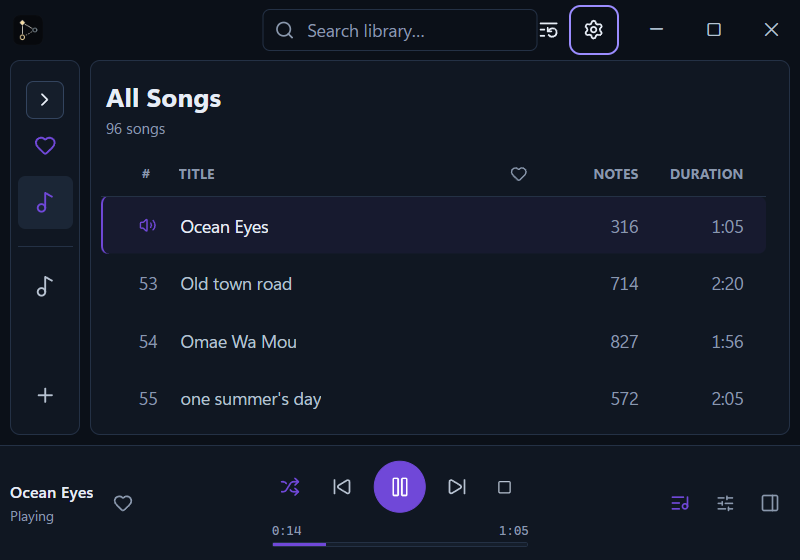
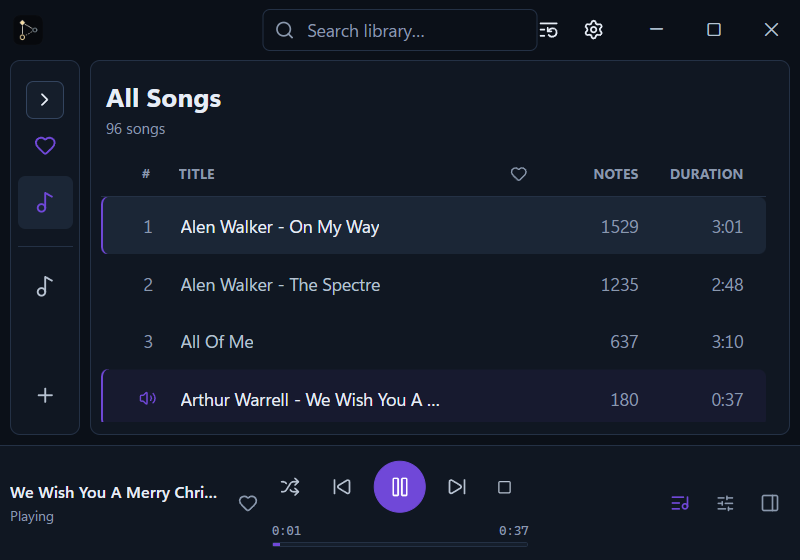
docs: refresh PR 237 Tauri evidence

diff --git a/docs/evidence/pr237-player-ux/README.md b/docs/evidence/pr237-player-ux/README.md
@@ -1,18 +1,18 @@
-# PR #237 — Player UX Tauri evidence
+# PR #238 / Issue #237 — Player UX Tauri evidence
 
-Captured from implementation source SHA `60836de312382954b35937c47b88a3a874ee13f6` in a real Windows Tauri/Wry window using Microsoft Edge WebView2 `154.0.4258.12`. Playwright connected to the WebView2 local CDP endpoint; these are not browser-mock captures. `geometry.json` records the runtime, viewport, document bounds, UI state, measured row geometry, and SHA-256 for each PNG.
+Captured from implementation source commit `dcfd670ecdec75d2805518da9b9fe827402d7027` in a real Windows Tauri/Wry window using Microsoft Edge WebView2 `154.0.4258.12`. Playwright connected to the WebView2 local CDP endpoint; these are not browser-mock captures. `geometry.json` records the runtime, viewport, document bounds, UI state, measured row geometry, and SHA-256 for each PNG.
 
 At 125% display scaling (`devicePixelRatio = 1.25`), the wide WebView viewport was `960×608` and the compact viewport was `640×448`. The corresponding PNG surfaces are `1200×760` and `800×560`. Each capture reports that the document matches its viewport and the workbench fits. The playing row remains 46 CSS px high in wide and compact captures; selected and playing rows retain the same height when they differ. `align: 'auto'` following is covered by the regression suite.
 
-Player screenshots use **Test playback (no input)**. The `next-song-now-playing` capture follows explicit Next during Test playback and shows the new current song in the Library while the selected row remains independent. The natural Auto Play handoff is covered by store and E2E tests; it is not represented as an actual-Tauri advancing-state screenshot because dry-run Test playback intentionally remains one-shot, and exercising non-dry-run playback would send gameplay input.
+Player screenshots use **Test playback (no input)**. The `next-song-now-playing` capture follows explicit Next during Test playback: We Wish You A Merry Christmas is Now Playing while On My Way remains selected. The natural Auto Play handoff is covered by store and E2E tests; it is not represented as an actual-Tauri advancing-state screenshot because dry-run Test playback intentionally remains one-shot, and exercising non-dry-run playback would send gameplay input.
 
 | Capture | State | SHA-256 |
 | --- | --- | --- |
[6 lines of base64/hex data omitted]
-| `compact-library-now-playing-800x560.png` | Compact Library/Player with Now Playing row visible | `83B6265FEEEAC08C1C17414DEC4DF2694D68840D45F46892B6F7837043237AD` |
[9 lines of base64/hex data omitted]
